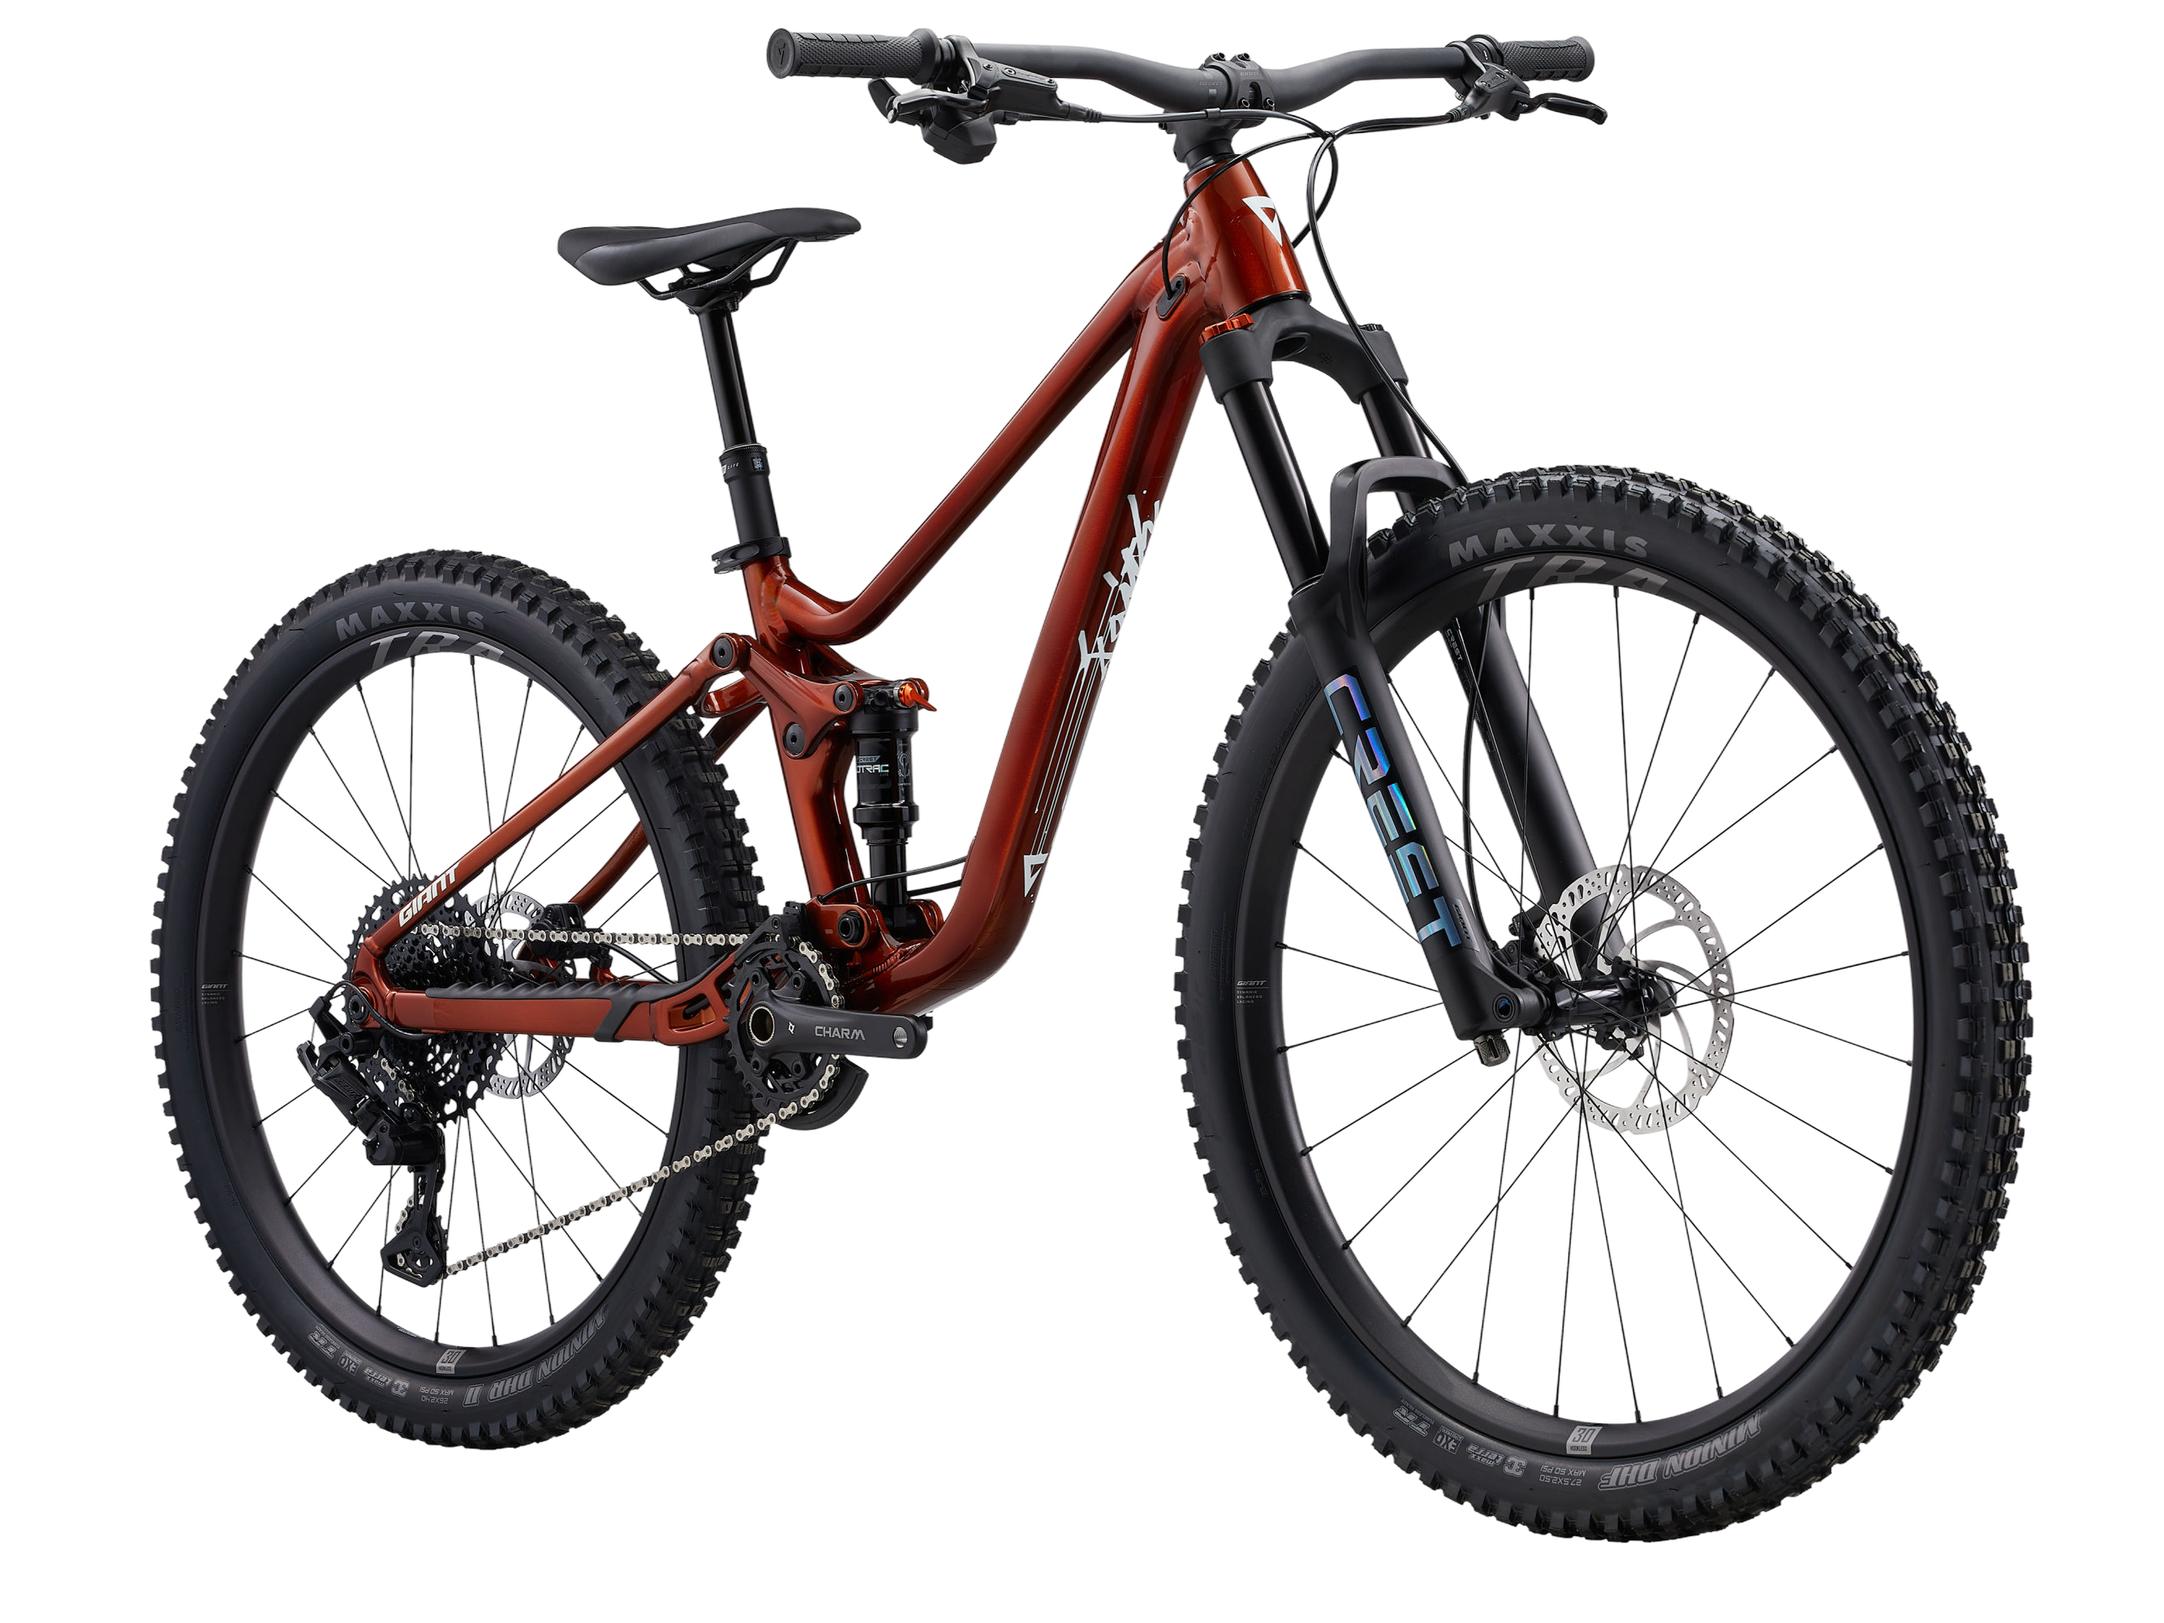
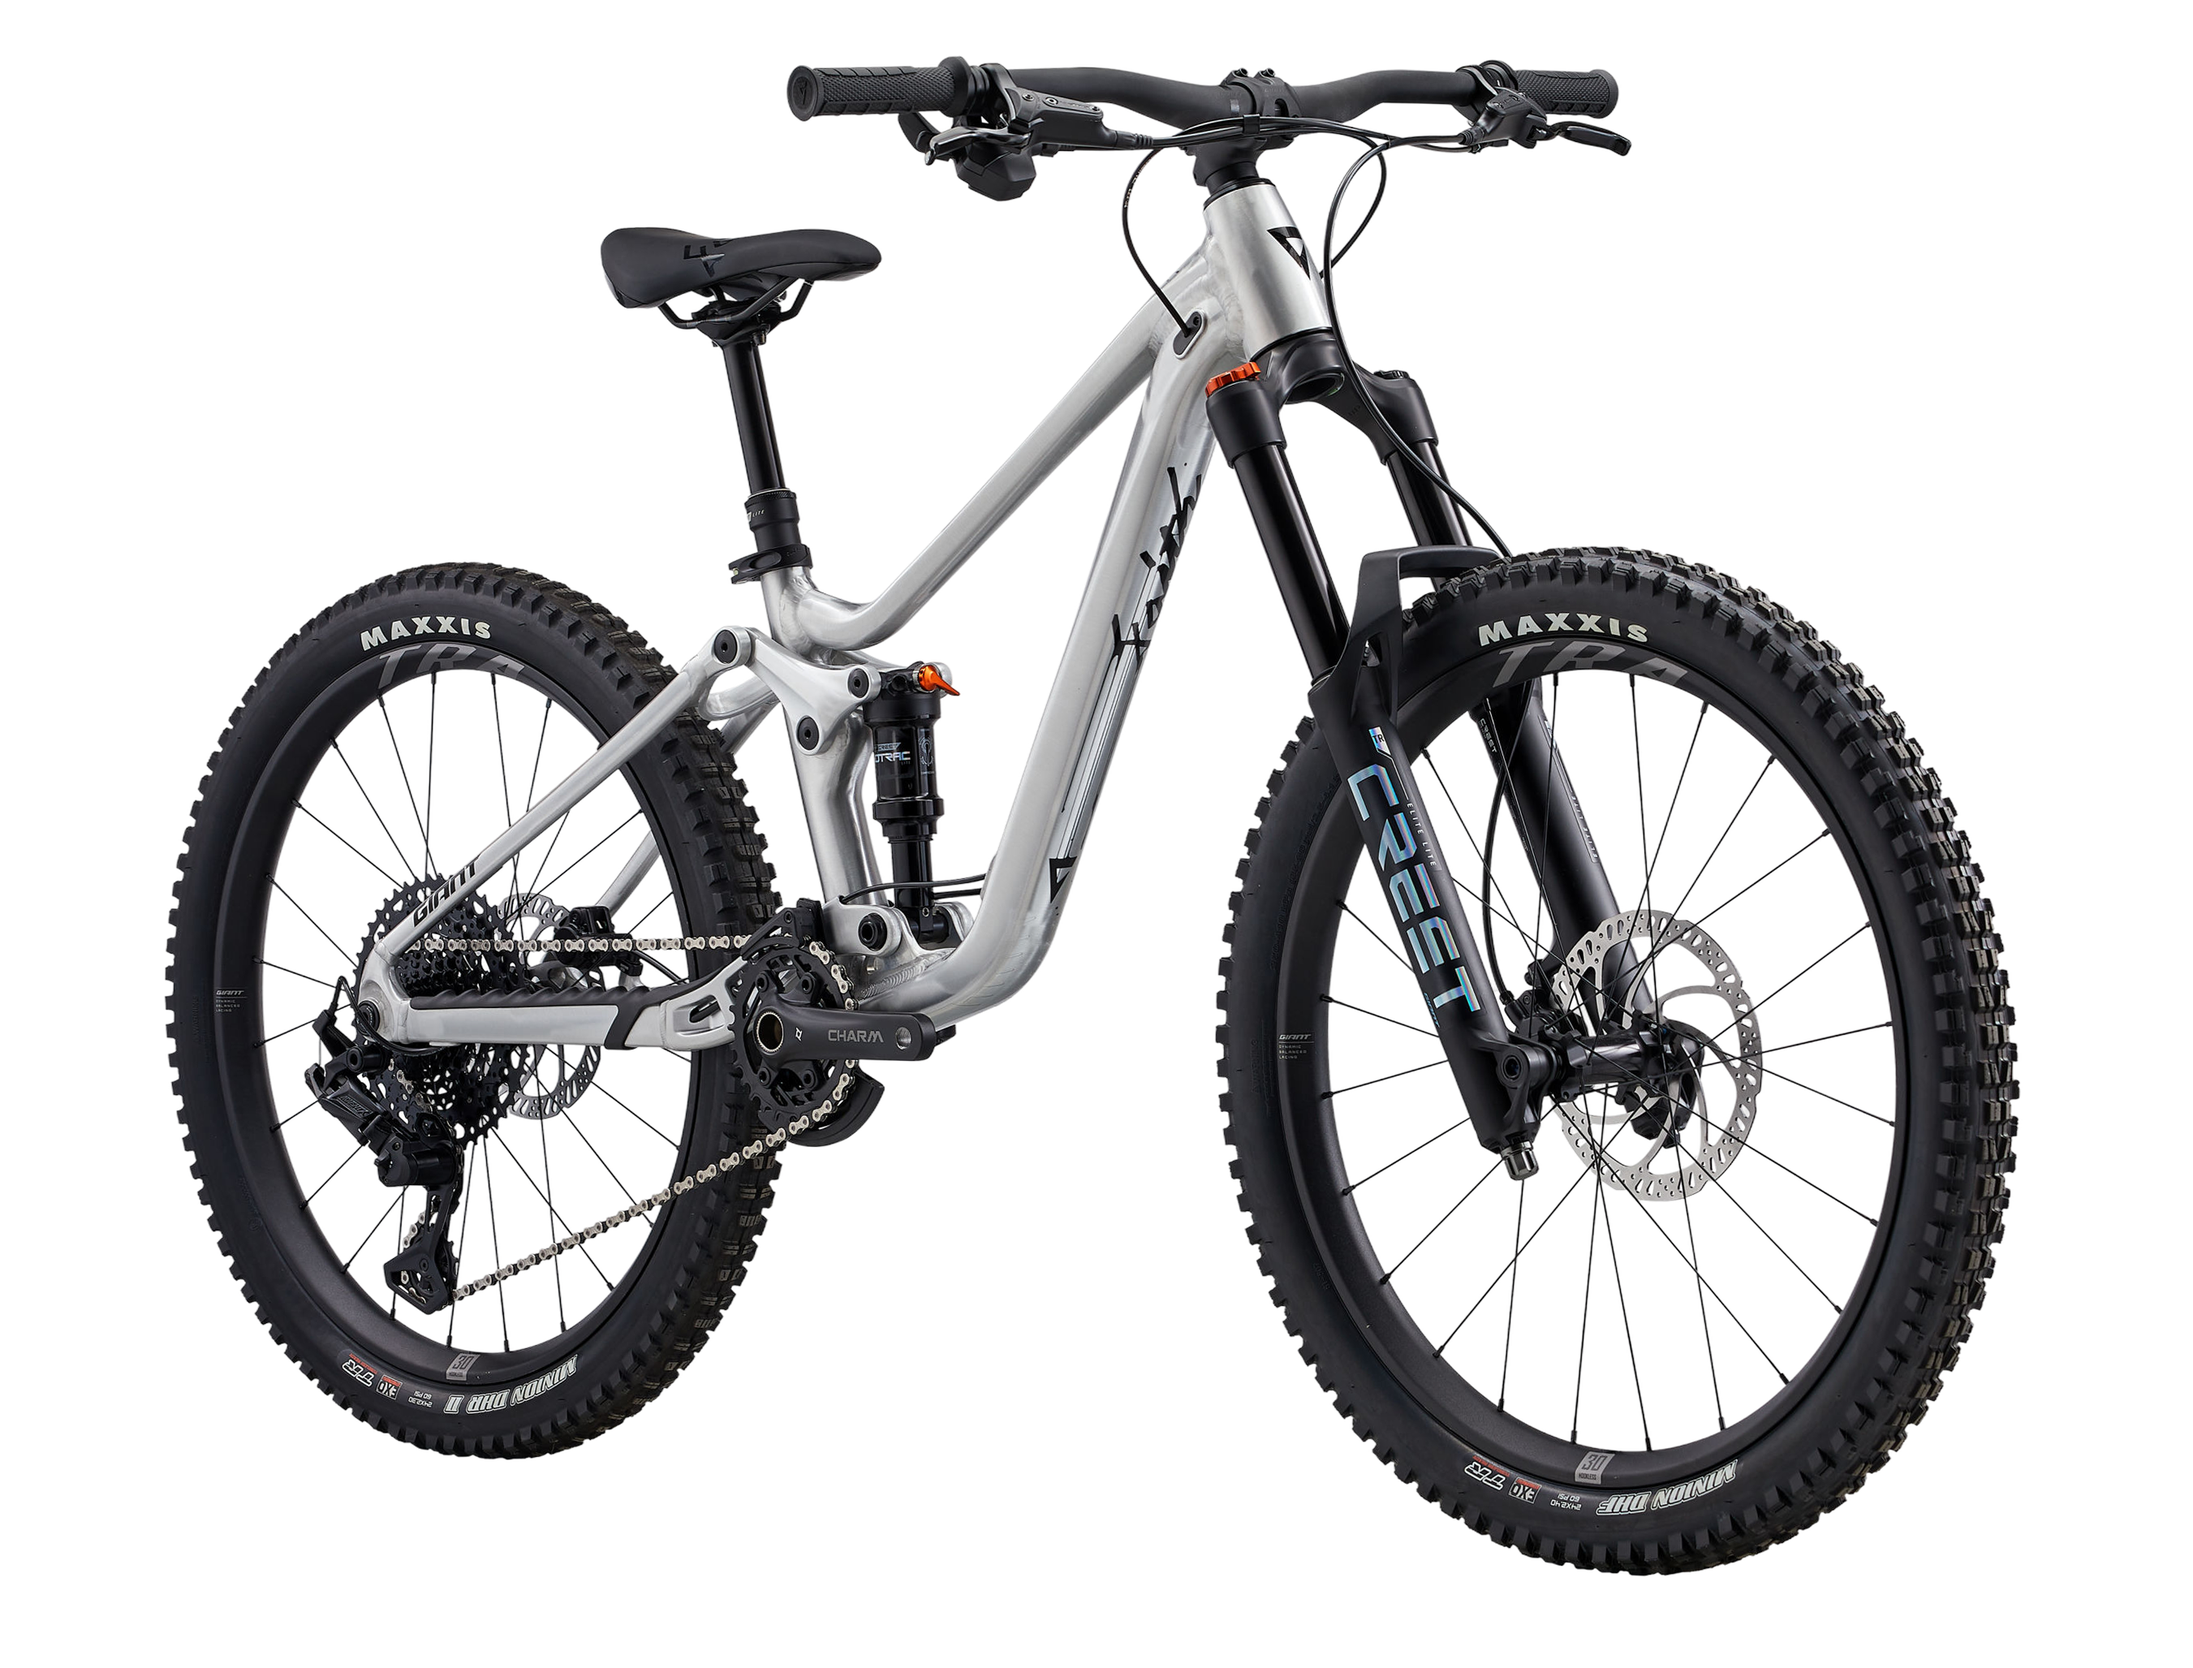
展廳背景換 store7，兩側車改朝外並貼合台階
- bg/showroom-store7.jpg：新展廳算圖，壓成 2400px（11.2MB → 494KB）。
  圓台位置整組重量：下層 x25–76 前緣 y66、上層 x33.5–67 台面 y52.5–59.5，
  兩側台階左右各約 y64。三區的 bottom / width 與主角車抬升跟著重算。
- 中央標題改 bottom:33.5vh，避開牆上 GIANT logo（logo 在 y23.3–25.5%）。
- 兩側車頭改朝畫面外側：45 度原圖是車頭朝右，所以鏡射從右邊換到左邊。
  鏡射那一側的 GIANT 字會反、傳動系統會落在非驅動側，要根治得補一張
  「車頭朝左、拍非驅動側」的 45 度圖。
- 兩側車加 rotate 讓輪子貼合台階斜面（左 -6° + skewX 3°、右 +1°）。
  台階在畫面上是 -12.7°／+14.0°，而 45 圖自己的地面線只有 6–10°。
- 兩翼各下沉 1vw，左右兩台往內收到 6.5%。
- Bikes/Child/45.png 換新圖，trim 版同步重裁（900x738）。
- 刪掉已無引用的 bg/showroom-store6.jpg。

Changed region(s): [[0.0622, 0.0, 0.9648, 0.961]]

diff --git a/showroom.html b/showroom.html
@@ -36,13 +36,13 @@ button{background:none;border:0;font:inherit;cursor:pointer;color:inherit}
 .zones{position:absolute;inset:0;z-index:3;pointer-events:none}
 .zone{position:absolute;text-align:center;transition:opacity .5s var(--ease)}
 /* 中央那組站在後方的展台上（照片裡台面約在 58%），左右兩組站在側邊斜台上、位置較低較前 */
-.zone-c{bottom:25%}          /* 中央階梯台：兩翼台面約在 64%，頂階再高 8% */
-/* 兩側台階是斜的，左右高度不同：左邊 x10 處台面約 72%、右邊 x90 處約 74.5% */
-.zone-l{bottom:28%}
-.zone-r{bottom:25.5%}
-.zone-c{left:50%;transform:translateX(-50%);width:47%;z-index:3}
-.zone-l{left:2.5%;width:15%;z-index:2}
-.zone-r{right:2.5%;width:15%;z-index:2}
+.zone-c{bottom:36.5%}          /* 中央階梯台：兩翼台面約在 64%，頂階再高 8% */
+/* 兩側各一台，站在側邊台階上 */
+.zone-l{bottom:41%}
+.zone-r{bottom:41%}
+.zone-c{left:50%;transform:translateX(-50%);width:45%;z-index:3}
+.zone-l{left:6.5%;width:15%;z-index:2}
+.zone-r{right:6.5%;width:15%;z-index:2}
 
 /* 標題給一塊半透明白底：壓在石材與牆面上才讀得清楚，形狀沿用站上的 3px 圓角 */
 .ztitle{display:inline-block;font-weight:600;color:var(--ink);letter-spacing:.02em;
@@ -54,7 +54,7 @@ button{background:none;border:0;font:inherit;cursor:pointer;color:inherit}
    原本它跟在主角車上方（靠 margin），車圖一高就被推上去壓到背景牆上的 GIANT logo——
    E-bike 那台特別高，差距有 7%。改成 vh 之後六個分類都落在同一條線上。 */
 .zone-c .ztitle{position:absolute;left:50%;transform:translateX(-50%);
-  bottom:31.7vh;margin:0}
+  bottom:33.5vh;margin:0}
 
 .bikes{display:flex;align-items:flex-end;justify-content:center;gap:1%;
   transition:opacity .34s var(--ease),transform .5s var(--ease)}
@@ -74,14 +74,21 @@ button{background:none;border:0;font:inherit;cursor:pointer;color:inherit}
 /* 中央：中間那台最大、兩側略小且往後退 */
 .zone-c .bikes{gap:0}
 .zone-c .bike{width:36%;z-index:1}              /* 兩翼疊在主角車前面 */
-/* 兩翼各往中間收 2vw（＝視窗寬的 2%），與主角車交疊 */
-.zone-c .bike:first-child{transform:translateX(2vw)}
-.zone-c .bike:last-child{transform:translateX(-2vw)}
-.zone-c .bike:nth-child(2){width:48%;transform:translateY(-4.2vw);z-index:0}  /* 頂階：高一階、也最大，但壓在最後面 */
+/* 兩翼各往中間收 2vw（＝視窗寬的 2%）並下沉 1vw，與主角車交疊 */
+.zone-c .bike:first-child{transform:translateX(2vw) translateY(1vw)}
+.zone-c .bike:last-child{transform:translateX(-2vw) translateY(1vw)}
+.zone-c .bike:nth-child(2){width:48%;transform:translateY(-3.4vw);z-index:0}  /* 頂階：高一階、也最大，但壓在最後面 */
 /* 抬升用 vw 不用 %：% 是相對車圖自己的高度，而每台車的圖比例不同，
    換分類時主角車就會忽高忽低。固定成 vw 之後每台的輪底都落在同一條線上。 */
 .zone-l .bike,.zone-r .bike{width:92%}          /* 左右各一台，站在自己的平台上 */
-.zone-r .bike{transform:scaleX(-1)}             /* 右側鏡射；掛在 .bike 上，接地陰影才會一起翻面 */
+/* 45 度原圖是車頭朝右，所以改鏡射左邊：兩台的車頭都朝畫面外側。
+   鏡射掛在 .bike 上（不是 img），接地陰影才會一起翻面。
+   注意鏡射那一側的 GIANT 字會反、傳動系統會跑到非驅動側——
+   要根治得補一張「車頭朝左、拍非驅動側」的 45 度圖。 */
+/* 旋轉是為了讓輪子貼合台階的斜面；轉在 .bike 上，接地陰影會一起跟著轉。
+   左邊還要鏡射，寫在 rotate 右側＝先鏡射再旋轉，角度才是螢幕上的角度。 */
+.zone-l .bike{transform:rotate(-6deg) scaleX(-1) skewX(3deg);transform-origin:50% 100%}
+.zone-r .bike{transform:rotate(1deg);transform-origin:50% 100%}
 
 /* ══ 上方分類列 ══════════════════════════════════════════ */
 .top{position:fixed;z-index:20;top:0;left:0;right:0;height:80px;display:flex;align-items:center;
@@ -190,7 +197,7 @@ button{background:none;border:0;font:inherit;cursor:pointer;color:inherit}
 </style>
 
 <div class="room">
-  <img src="bg/showroom-store6.jpg" alt="">
+  <img src="bg/showroom-store7.jpg" alt="">
 
   <div class="zones">
     <div class="zone zone-l"><p class="ztitle"></p><div class="bikes"></div></div>
